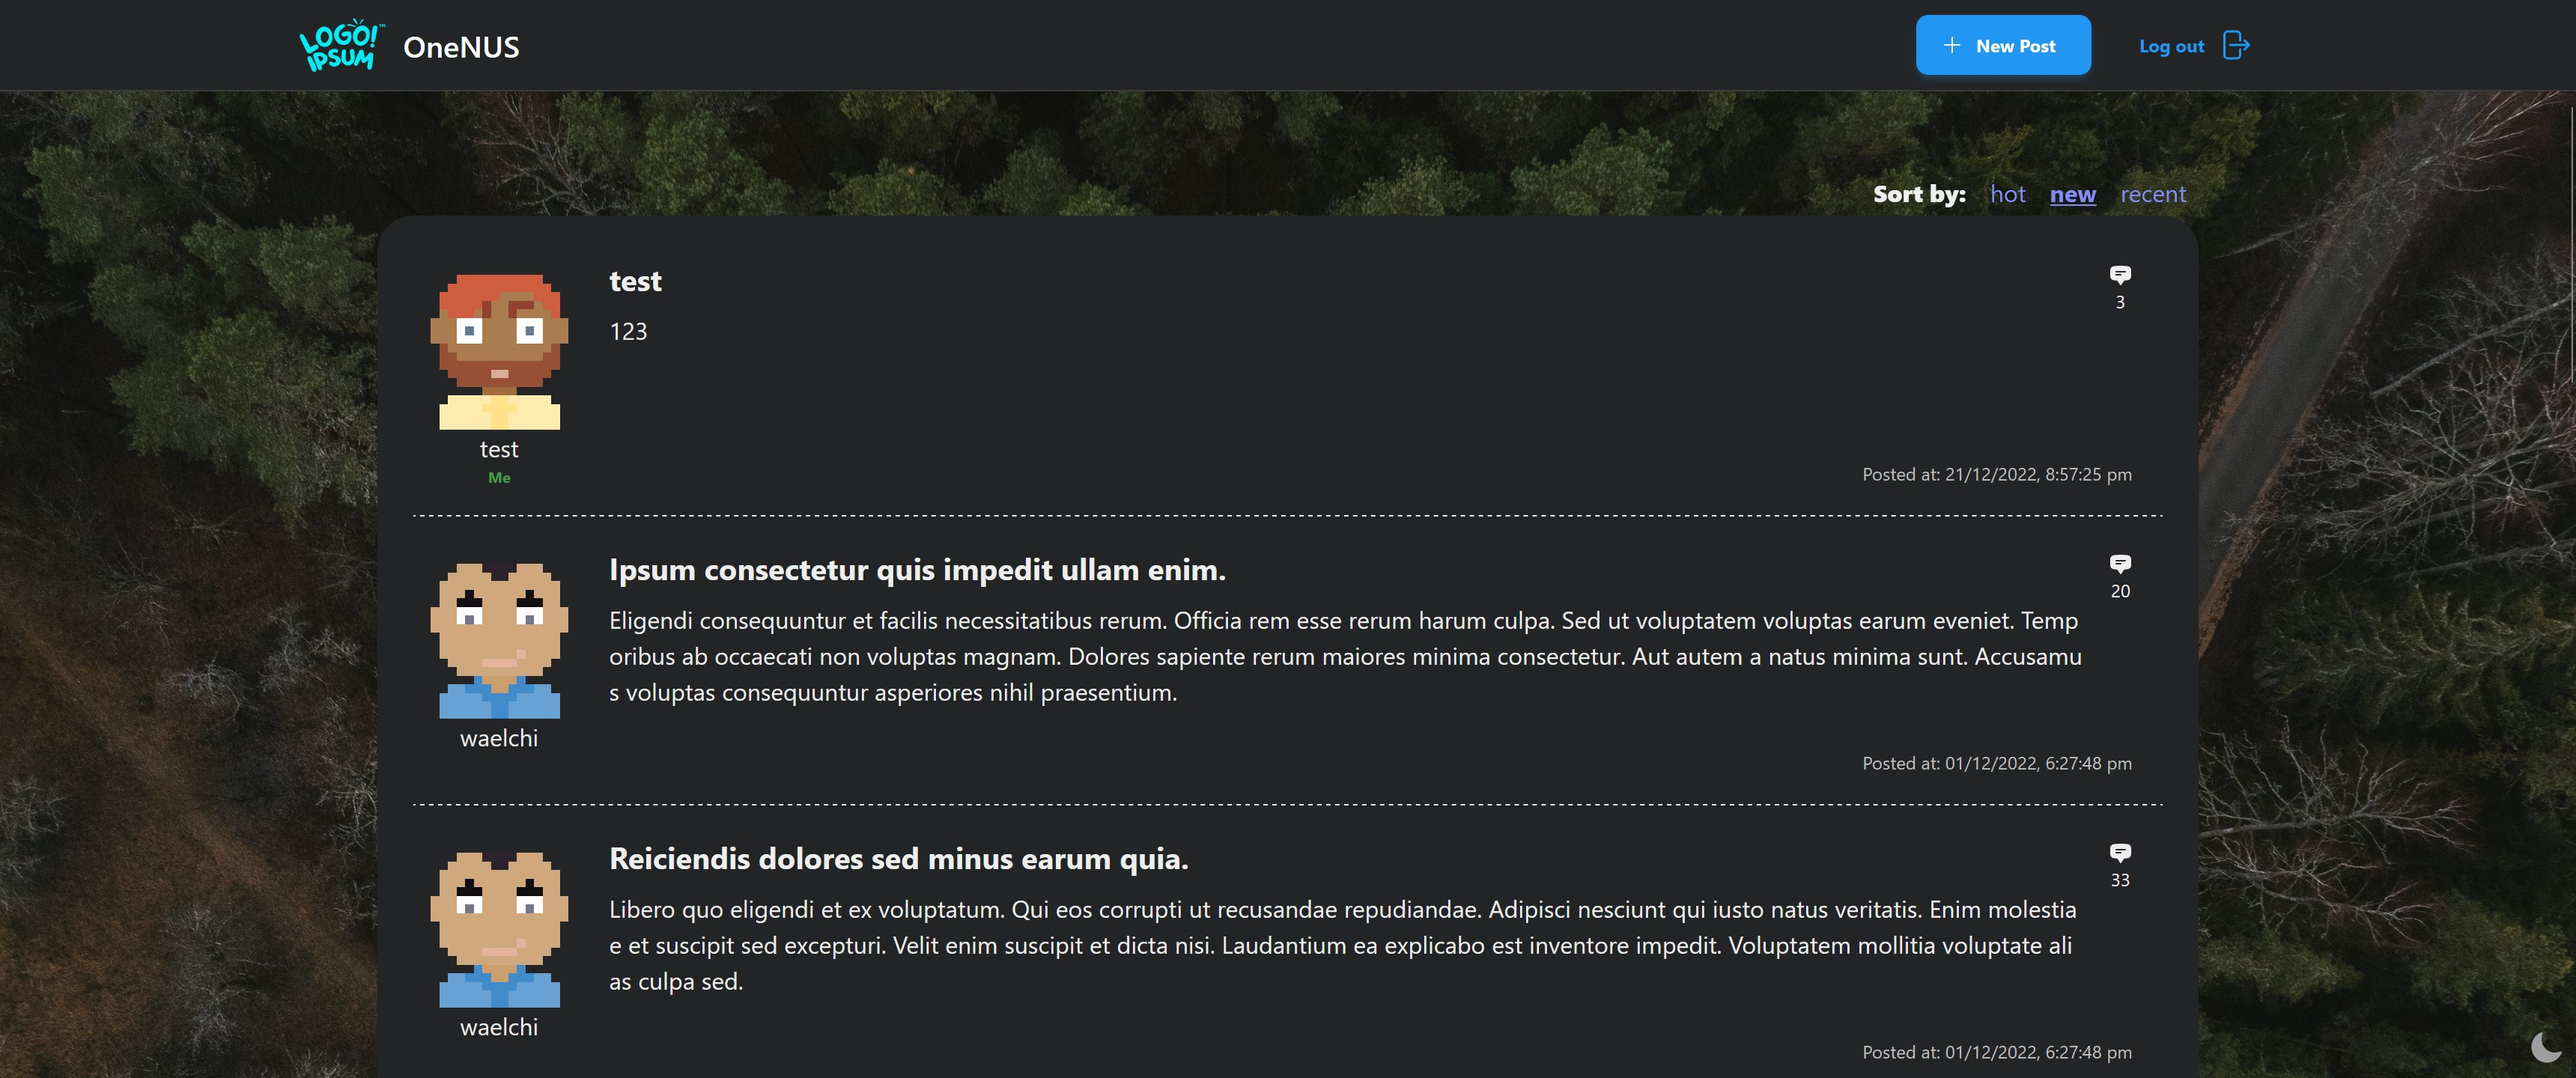
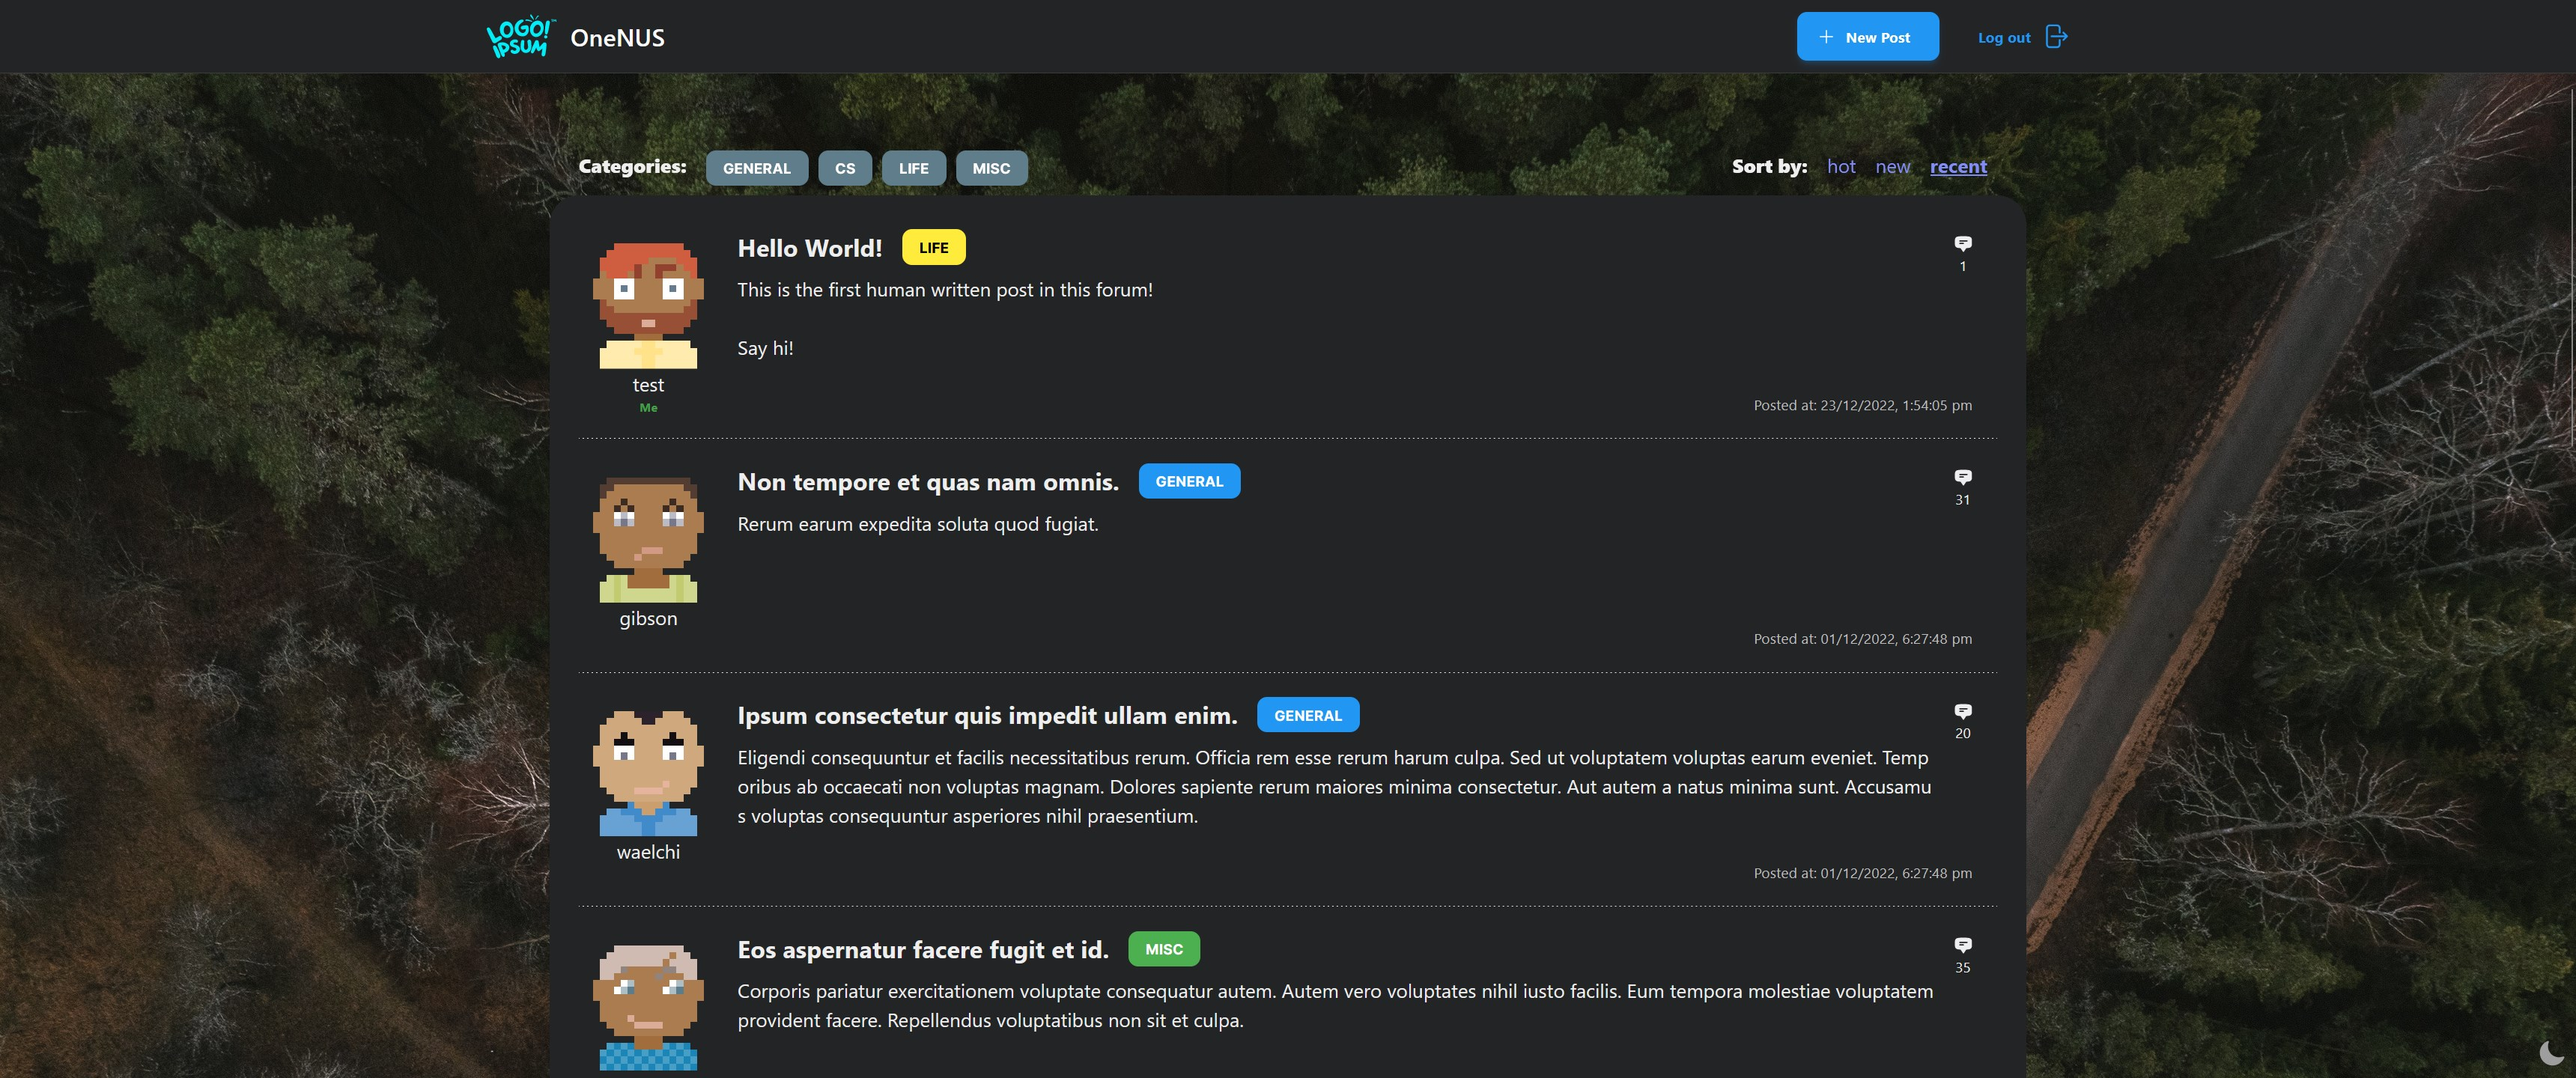
feat: added ability to filter posts by category

diff --git a/src/features/posts/components/PostFlair.tsx b/src/features/posts/components/PostFlair.tsx
@@ -1,0 +1,78 @@
+import { Chip } from "@material-tailwind/react";
+import { color } from "@material-tailwind/react/types/components/chip";
+
+import { useAppSelector, useAppDispatch } from "hooks/typedRedux";
+
+import { PostTag, PostTags, PostTagColors } from "../types";
+import { setFilterTag } from "../slices";
+
+export type PostFlairProps = {
+  category: PostTag;
+};
+
+export const PostFlair = ({ category }: PostFlairProps) => {
+  return (
+    <Chip value={category} color={PostTagColors[category] as color}></Chip>
+  );
+};
+
+export type FilterPostFlairProps = {
+  category: PostTag;
+  activeFilterTag: string;
+  onActivate: (newFilterTag: string) => void;
+};
+
+export const FilterPostFlair = ({
+  category,
+  activeFilterTag,
+  onActivate,
+}: FilterPostFlairProps) => {
+  const isActive = category === activeFilterTag;
+
+  return (
+    <div
+      className="hover:cursor-pointer hover:opacity-80"
+      onClick={() => {
+        if (!isActive) {
+          onActivate(category);
+        } else {
+          onActivate("-");
+        }
+      }}
+    >
+      <Chip
+        value={category}
+        color={isActive ? (PostTagColors[category] as color) : "blue-gray"}
+        dismissible={
+          isActive
+            ? {
+                onClose: () => {},
+              }
+            : undefined
+        }
+      />
+    </div>
+  );
+};
+
+export const PostFlairs = () => {
+  const activeFilterTag = useAppSelector((state) => state.posts.filterTag);
+  const dispatch = useAppDispatch();
+  const setActiveFilterTag = (newFilterTag: string) =>
+    dispatch(setFilterTag(newFilterTag));
+
+  return (
+    <div className="flex flex-row">
+      <p className="mr-2 font-black">Categories:</p>
+      {PostTags.map(([type, _]) => (
+        <div className="ml-2" key={type}>
+          <FilterPostFlair
+            category={type as PostTag}
+            activeFilterTag={activeFilterTag}
+            onActivate={setActiveFilterTag}
+          />
+        </div>
+      ))}
+    </div>
+  );
+};

diff --git a/src/features/posts/routes/Posts.tsx b/src/features/posts/routes/Posts.tsx
@@ -6,6 +6,7 @@ import { useAppSelector, useAppDispatch } from "hooks/typedRedux";
 import { useAuth } from "lib/auth";
 
 import { PostsList } from "../components/PostsList";
+import { PostFlairs } from "../components/PostFlair";
 import { usePosts } from "../api/getPosts";
 import { SortTypes } from "../types";
 import { setPageNumber, setSortby } from "../slices";
@@ -42,25 +43,30 @@ export const Posts = () => {
 
   return (
     <ContentLayout title="">
-      <div className="float-right">
-        <PageSortBy
-          sortOptions={[
-            [SortTypes[SortTypes.byHot], "hot", "Sort by replies count"],
-            [SortTypes[SortTypes.ByNew], "new", "Sort by creation date"],
-            [
-              SortTypes[SortTypes.byRecent],
-              "recent",
-              "Sort by lastest replies",
-            ],
-          ]}
-          activeSortOption={sortBy}
-          setSortOption={(sortOption: string) => {
-            dispatch(setSortby(sortOption));
-            goToPage(1);
-          }}
-        />
+      <div className="flex flex-col md:flex-row px-6 py-2">
+        <div className="grow">
+          <PostFlairs />
+        </div>
+        <div className="flex-none w-fit">
+          <PageSortBy
+            sortOptions={[
+              [SortTypes[SortTypes.byHot], "hot", "Sort by replies count"],
+              [SortTypes[SortTypes.ByNew], "new", "Sort by creation date"],
+              [
+                SortTypes[SortTypes.byRecent],
+                "recent",
+                "Sort by lastest replies",
+              ],
+            ]}
+            activeSortOption={sortBy}
+            setSortOption={(sortOption: string) => {
+              dispatch(setSortby(sortOption));
+              goToPage(1);
+            }}
+          />
+        </div>
       </div>
-      <div className="mt-3 clear-both">
+      <div>
         <PostsList posts={postsQuery.data.posts} user={user} />
         <div className="mt-5">
           <PagePaginator

diff --git a/src/features/posts/components/PostPreview.tsx b/src/features/posts/components/PostPreview.tsx
@@ -6,6 +6,7 @@ import { UserIcon } from "features/auth";
 import { UTCEpochToLocalDate } from "utils/format";
 
 import { Post } from "../types";
+import { PostFlair } from "./PostFlair";
 
 type PostPreviewProps = {
   post: Post;
@@ -40,9 +41,12 @@ export const PostPreview = ({ post, ownPost }: PostPreviewProps) => {
                 <p className="text-center text-[12px]">{post.commentsCount}</p>
               </div>
             </div>
-            <h2 className="text-xl break-all font-bold mb-2 truncate text-ellipsis group-hover:underline">
-              {post.title}
-            </h2>
+            <div className="flex flex-row mb-2">
+              <h2 className="text-xl break-all font-bold truncate text-ellipsis group-hover:underline mr-4">
+                {post.title}
+              </h2>
+              <PostFlair category={post.tag} />
+            </div>
             <p className="text-md break-all whitespace-pre-line truncate text-ellipsis max-h-[100%]">
               {post.text}
             </p>

diff --git a/src/features/posts/types/index.ts b/src/features/posts/types/index.ts
@@ -1,8 +1,24 @@
 import { BaseEntity } from "types";
 
+export const PostTagColors = {
+  general: "blue",
+  cs: "red",
+  life: "yellow",
+  misc: "green",
+};
+
+export type PostTag = "general" | "cs" | "life" | "misc";
+
+export const PostTags = [
+  ["general", "General"],
+  ["cs", "CS"],
+  ["life", "Life"],
+  ["misc", "Misc"],
+];
+
 export type Post = {
   title: string;
-  tag: string;
+  tag: PostTag;
   text: string;
 
   author: string;
@@ -19,5 +35,3 @@ export enum SortTypes {
   byHot,
   byRecent,
 }
-
-export const PostTags = ["general", "cs", "life", "misc"];

diff --git a/src/features/posts/components/PostsList.tsx b/src/features/posts/components/PostsList.tsx
@@ -14,7 +14,7 @@ const NoPosts = () => {
 
 export const PostsList = ({ posts, user }: PostsListProps) => {
   return (
-    <div className="bg-secondary dark:bg-primary text-primary dark:text-secondary shadow rounded-3xl mt-5">
+    <div className="bg-secondary dark:bg-primary text-primary dark:text-secondary shadow rounded-3xl">
       {posts ? (
         <ul className="divide-y divide-dashed px-6 py-2">
           {posts.map((post: Post, postIndex: number) => (

diff --git a/src/features/posts/components/crud/CreatePostForm.tsx b/src/features/posts/components/crud/CreatePostForm.tsx
@@ -55,8 +55,8 @@ export const CreatePostForm = ({ onSuccess }: CreatePostFormProps) => {
             label="Category"
             error={formState.errors["tag"]}
             registration={register("tag")}
-            options={PostTags.map((type) => ({
-              label: type,
+            options={PostTags.map(([type, text]) => ({
+              label: text,
               value: type,
             }))}
             defaultValue={PostTags[0]}

diff --git a/README.md b/README.md
@@ -8,11 +8,10 @@ A webforum designed with simplicity in mind.
 
 This project is currently still in development.
 
-- Functionality for categorizing posts is still in progress.
 - Starring of posts is not yet available
 - Mobile support is still severely lacking
 
-Last updated: 22/12/22
+Last updated: 23/12/22
 
 <br/>
 
